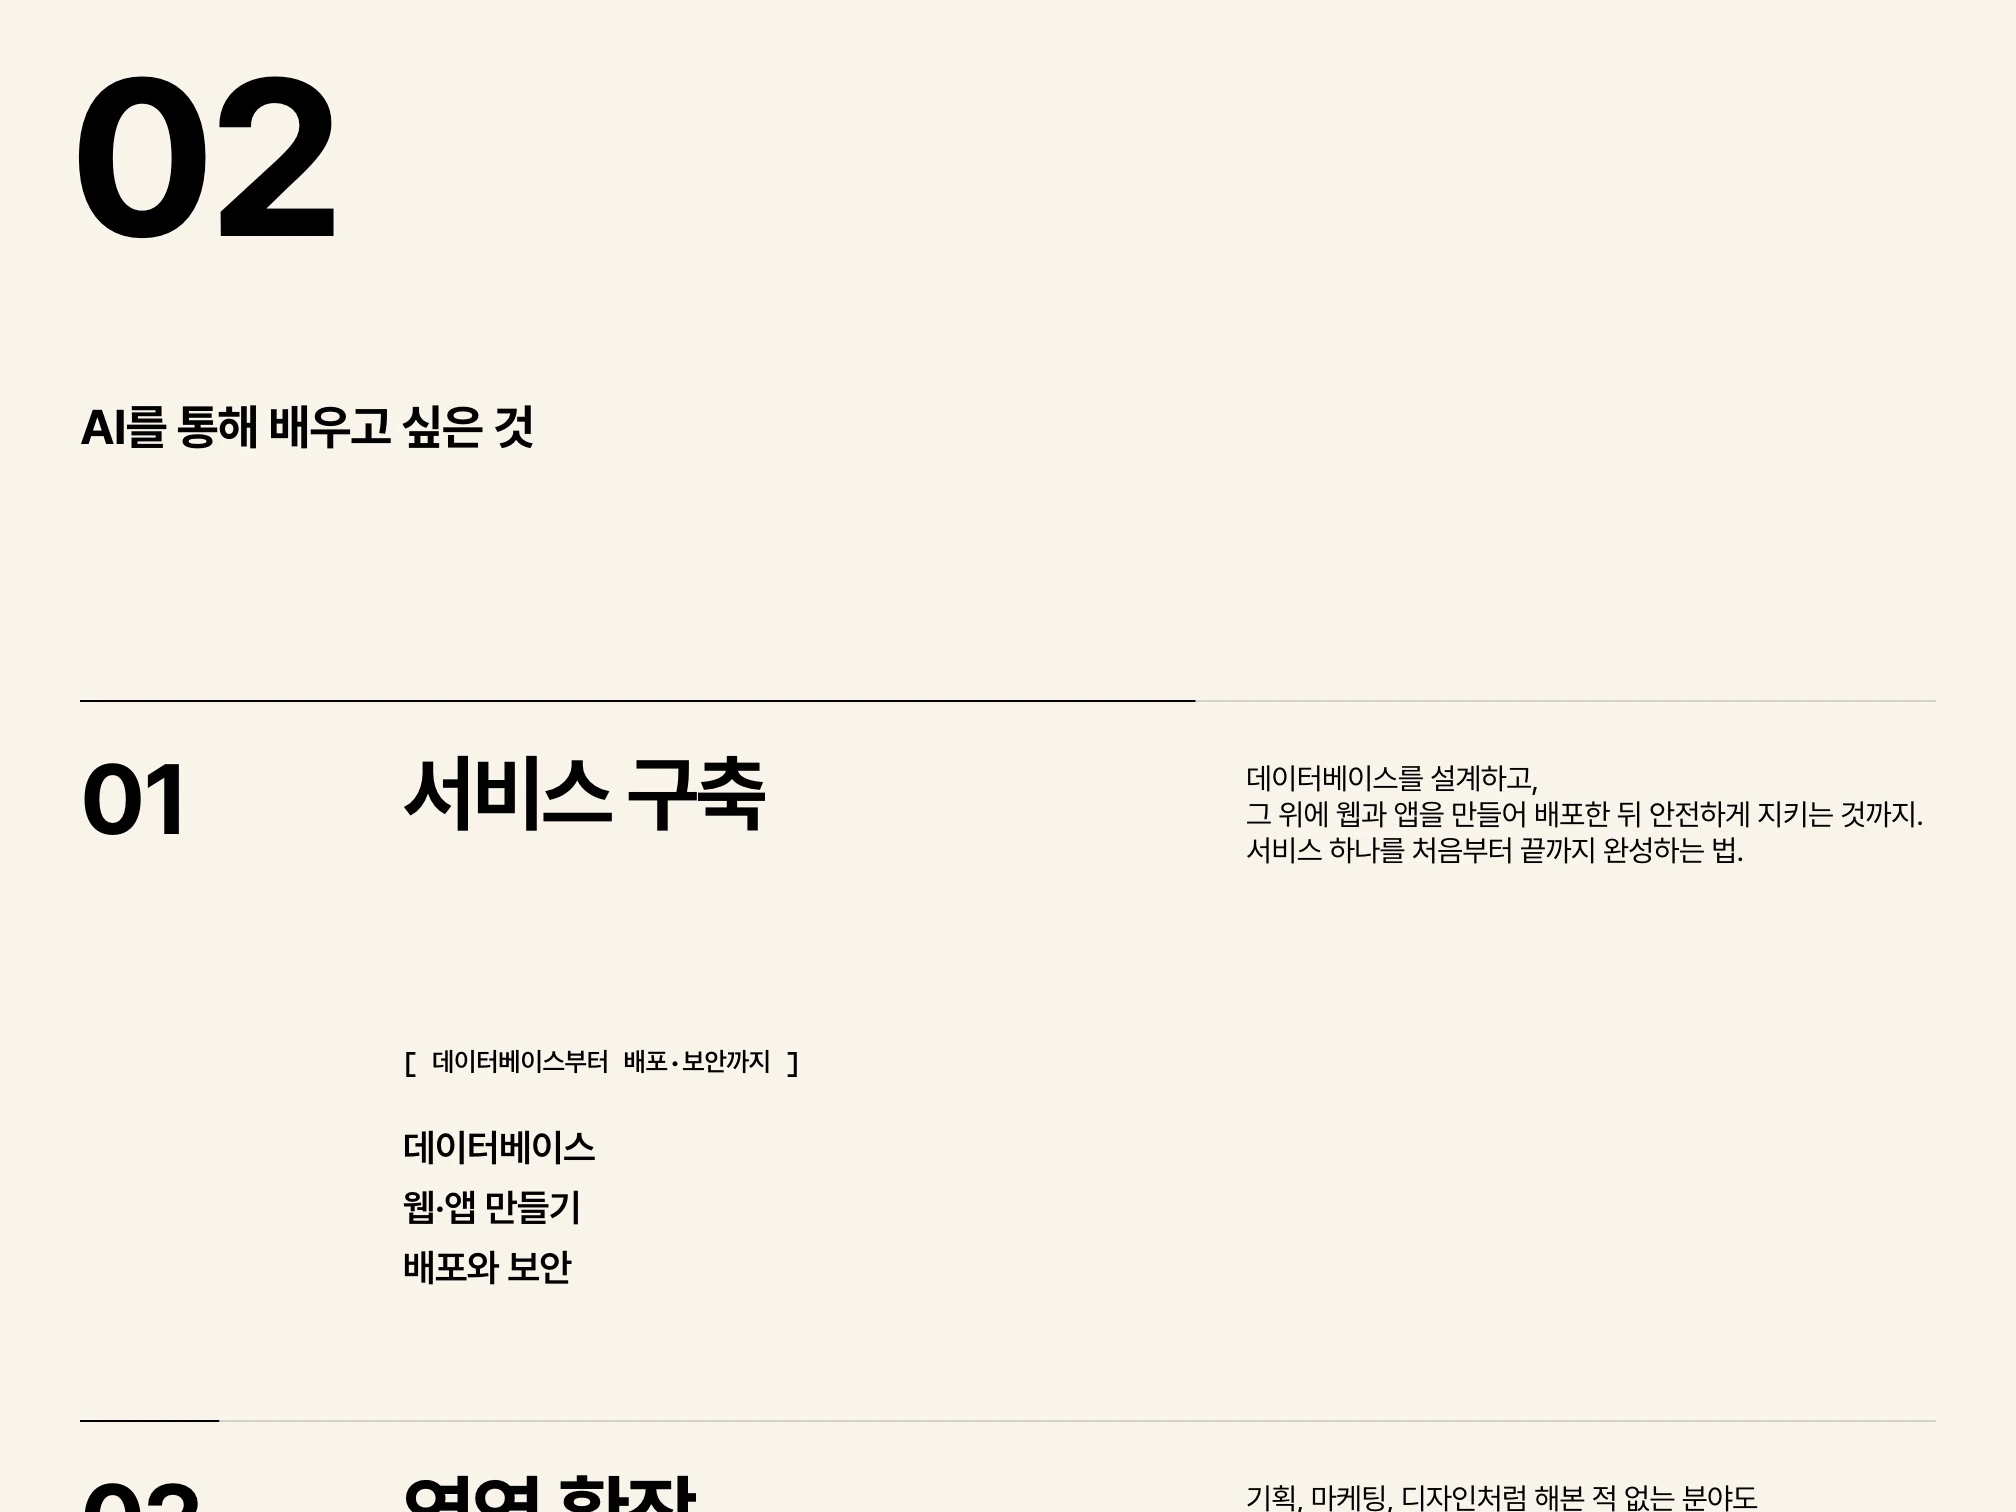
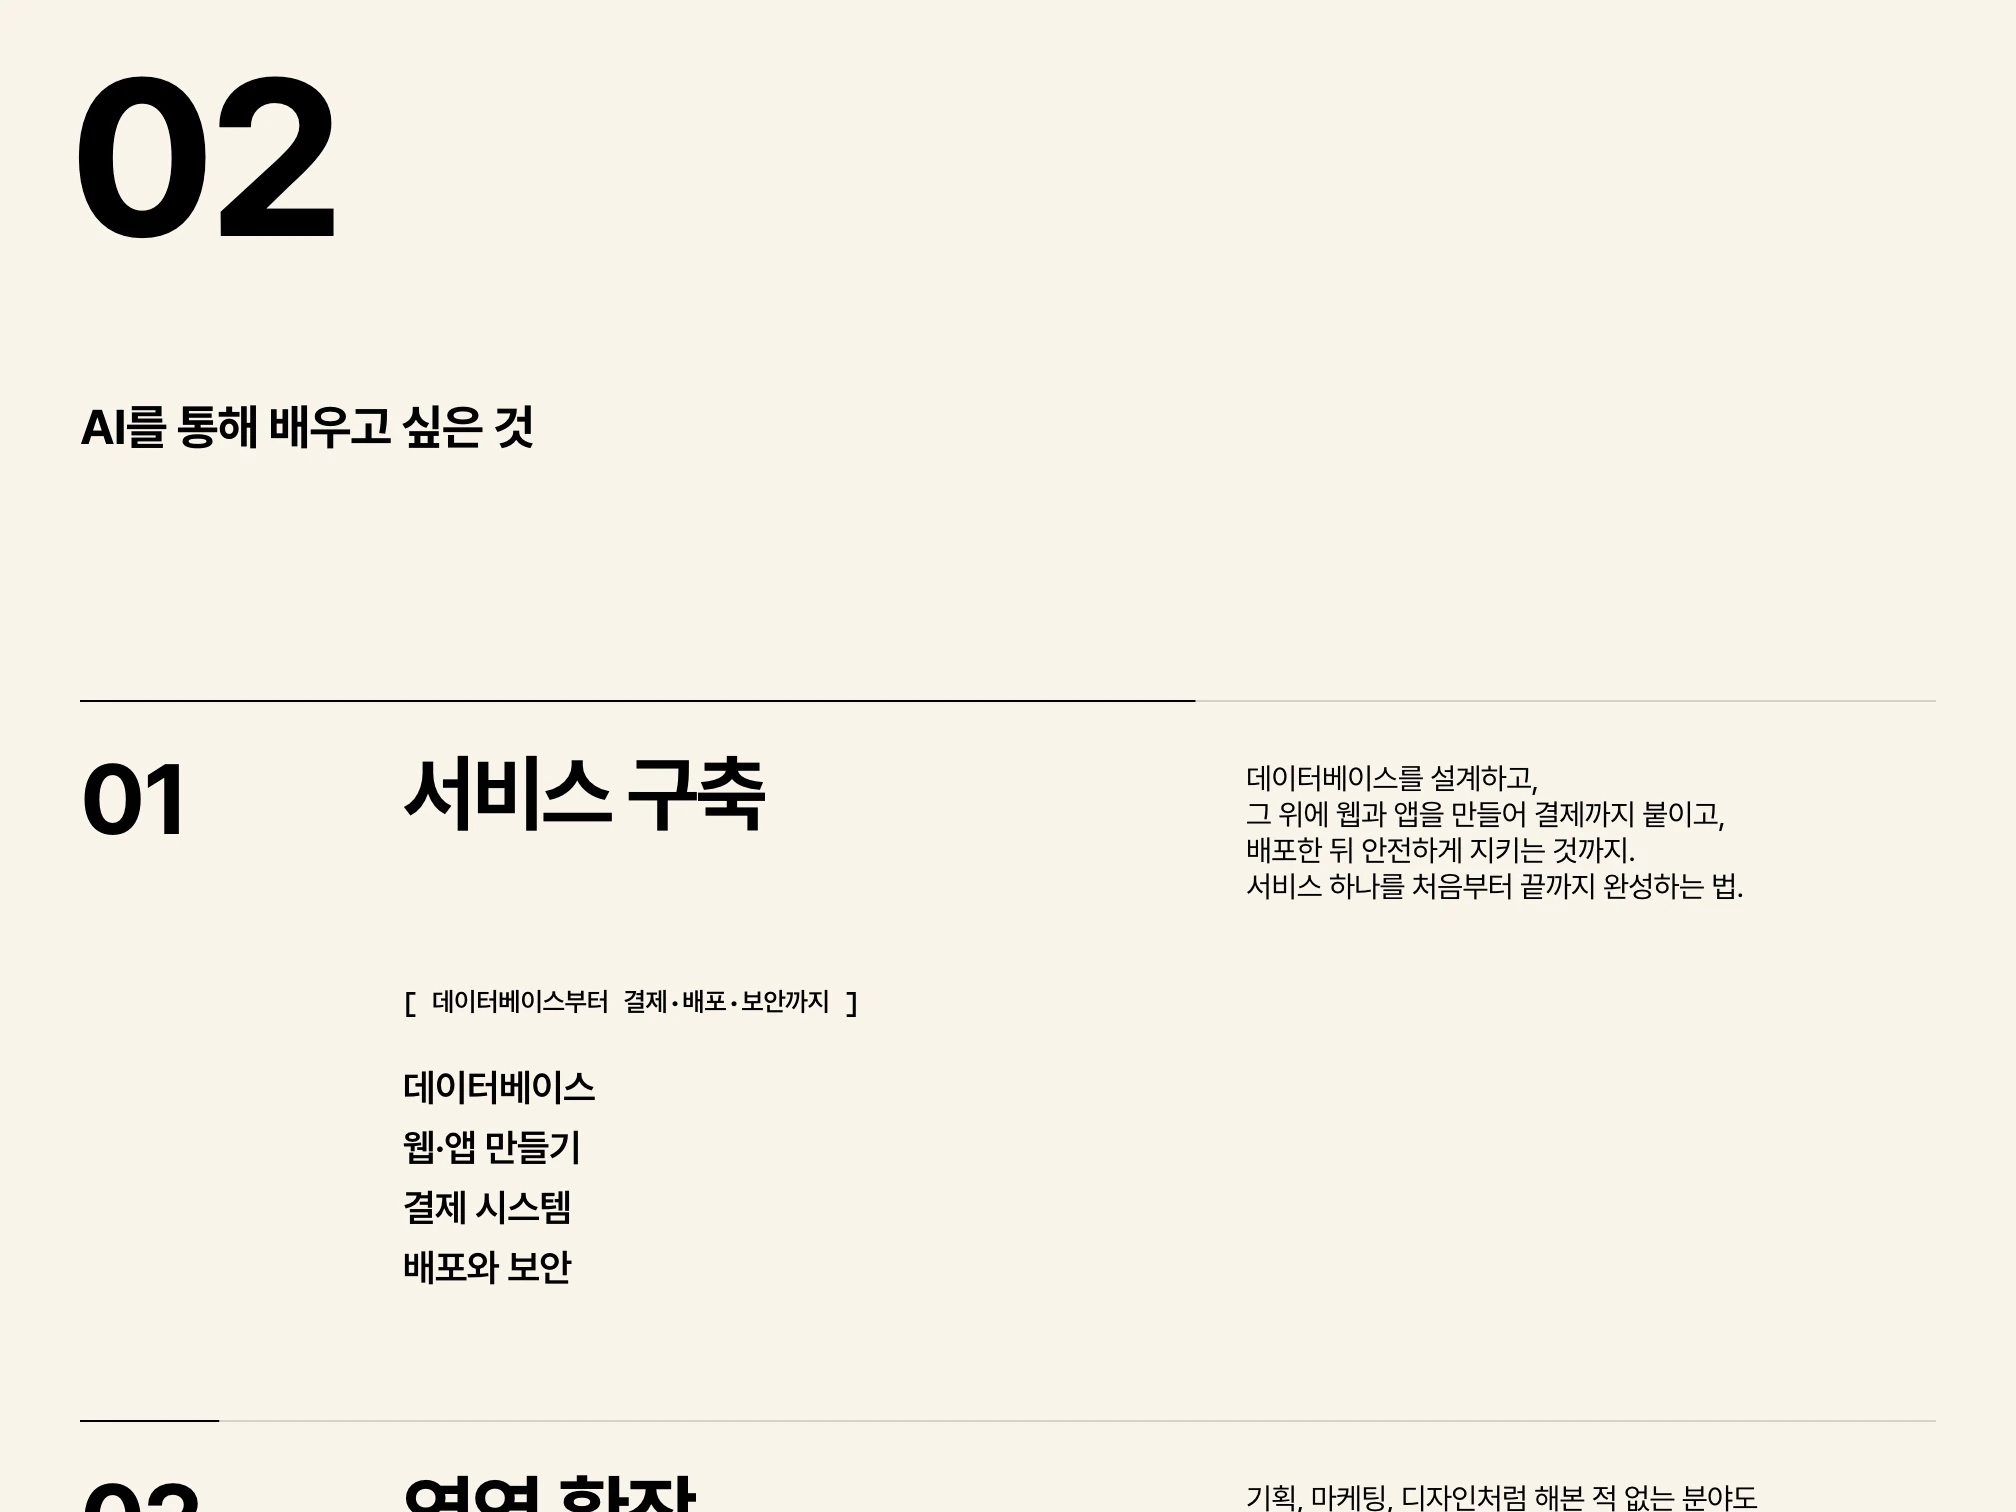
2페이지 서비스 구축에 결제 시스템 추가

Changed region(s): [[0.1875, 0.6528, 0.4062, 0.8082], [0.625, 0.5284, 0.9375, 0.5906]]

diff --git a/carousel-3d/public/pages/page-02.html b/carousel-3d/public/pages/page-02.html
@@ -192,9 +192,9 @@
 
   // 페이지 2: 배우고 싶은 것 4가지 (사용자 원문 다듬음)
   const ROWS = [
-    { title: "서비스 구축", kicker: "[ 데이터베이스부터 배포·보안까지 ]",
-      items: ["데이터베이스", "웹·앱 만들기", "배포와 보안"],
-      desc: "데이터베이스를 설계하고,\n그 위에 웹과 앱을 만들어 배포한 뒤 안전하게 지키는 것까지.\n서비스 하나를 처음부터 끝까지 완성하는 법." },
+    { title: "서비스 구축", kicker: "[ 데이터베이스부터 결제·배포·보안까지 ]",
+      items: ["데이터베이스", "웹·앱 만들기", "결제 시스템", "배포와 보안"],
+      desc: "데이터베이스를 설계하고,\n그 위에 웹과 앱을 만들어 결제까지 붙이고,\n배포한 뒤 안전하게 지키는 것까지.\n서비스 하나를 처음부터 끝까지 완성하는 법." },
     { title: "영역 확장", kicker: "[ 모르는 분야도 AI와 함께 ]",
       items: ["기획", "마케팅", "디자인"],
       desc: "기획, 마케팅, 디자인처럼 해본 적 없는 분야도\nAI를 활용해 직접 해내는 법." },

diff --git a/pages/page-02.html b/pages/page-02.html
@@ -192,9 +192,9 @@
 
   // 페이지 2: 배우고 싶은 것 4가지 (사용자 원문 다듬음)
   const ROWS = [
-    { title: "서비스 구축", kicker: "[ 데이터베이스부터 배포·보안까지 ]",
-      items: ["데이터베이스", "웹·앱 만들기", "배포와 보안"],
-      desc: "데이터베이스를 설계하고,\n그 위에 웹과 앱을 만들어 배포한 뒤 안전하게 지키는 것까지.\n서비스 하나를 처음부터 끝까지 완성하는 법." },
+    { title: "서비스 구축", kicker: "[ 데이터베이스부터 결제·배포·보안까지 ]",
+      items: ["데이터베이스", "웹·앱 만들기", "결제 시스템", "배포와 보안"],
+      desc: "데이터베이스를 설계하고,\n그 위에 웹과 앱을 만들어 결제까지 붙이고,\n배포한 뒤 안전하게 지키는 것까지.\n서비스 하나를 처음부터 끝까지 완성하는 법." },
     { title: "영역 확장", kicker: "[ 모르는 분야도 AI와 함께 ]",
       items: ["기획", "마케팅", "디자인"],
       desc: "기획, 마케팅, 디자인처럼 해본 적 없는 분야도\nAI를 활용해 직접 해내는 법." },
